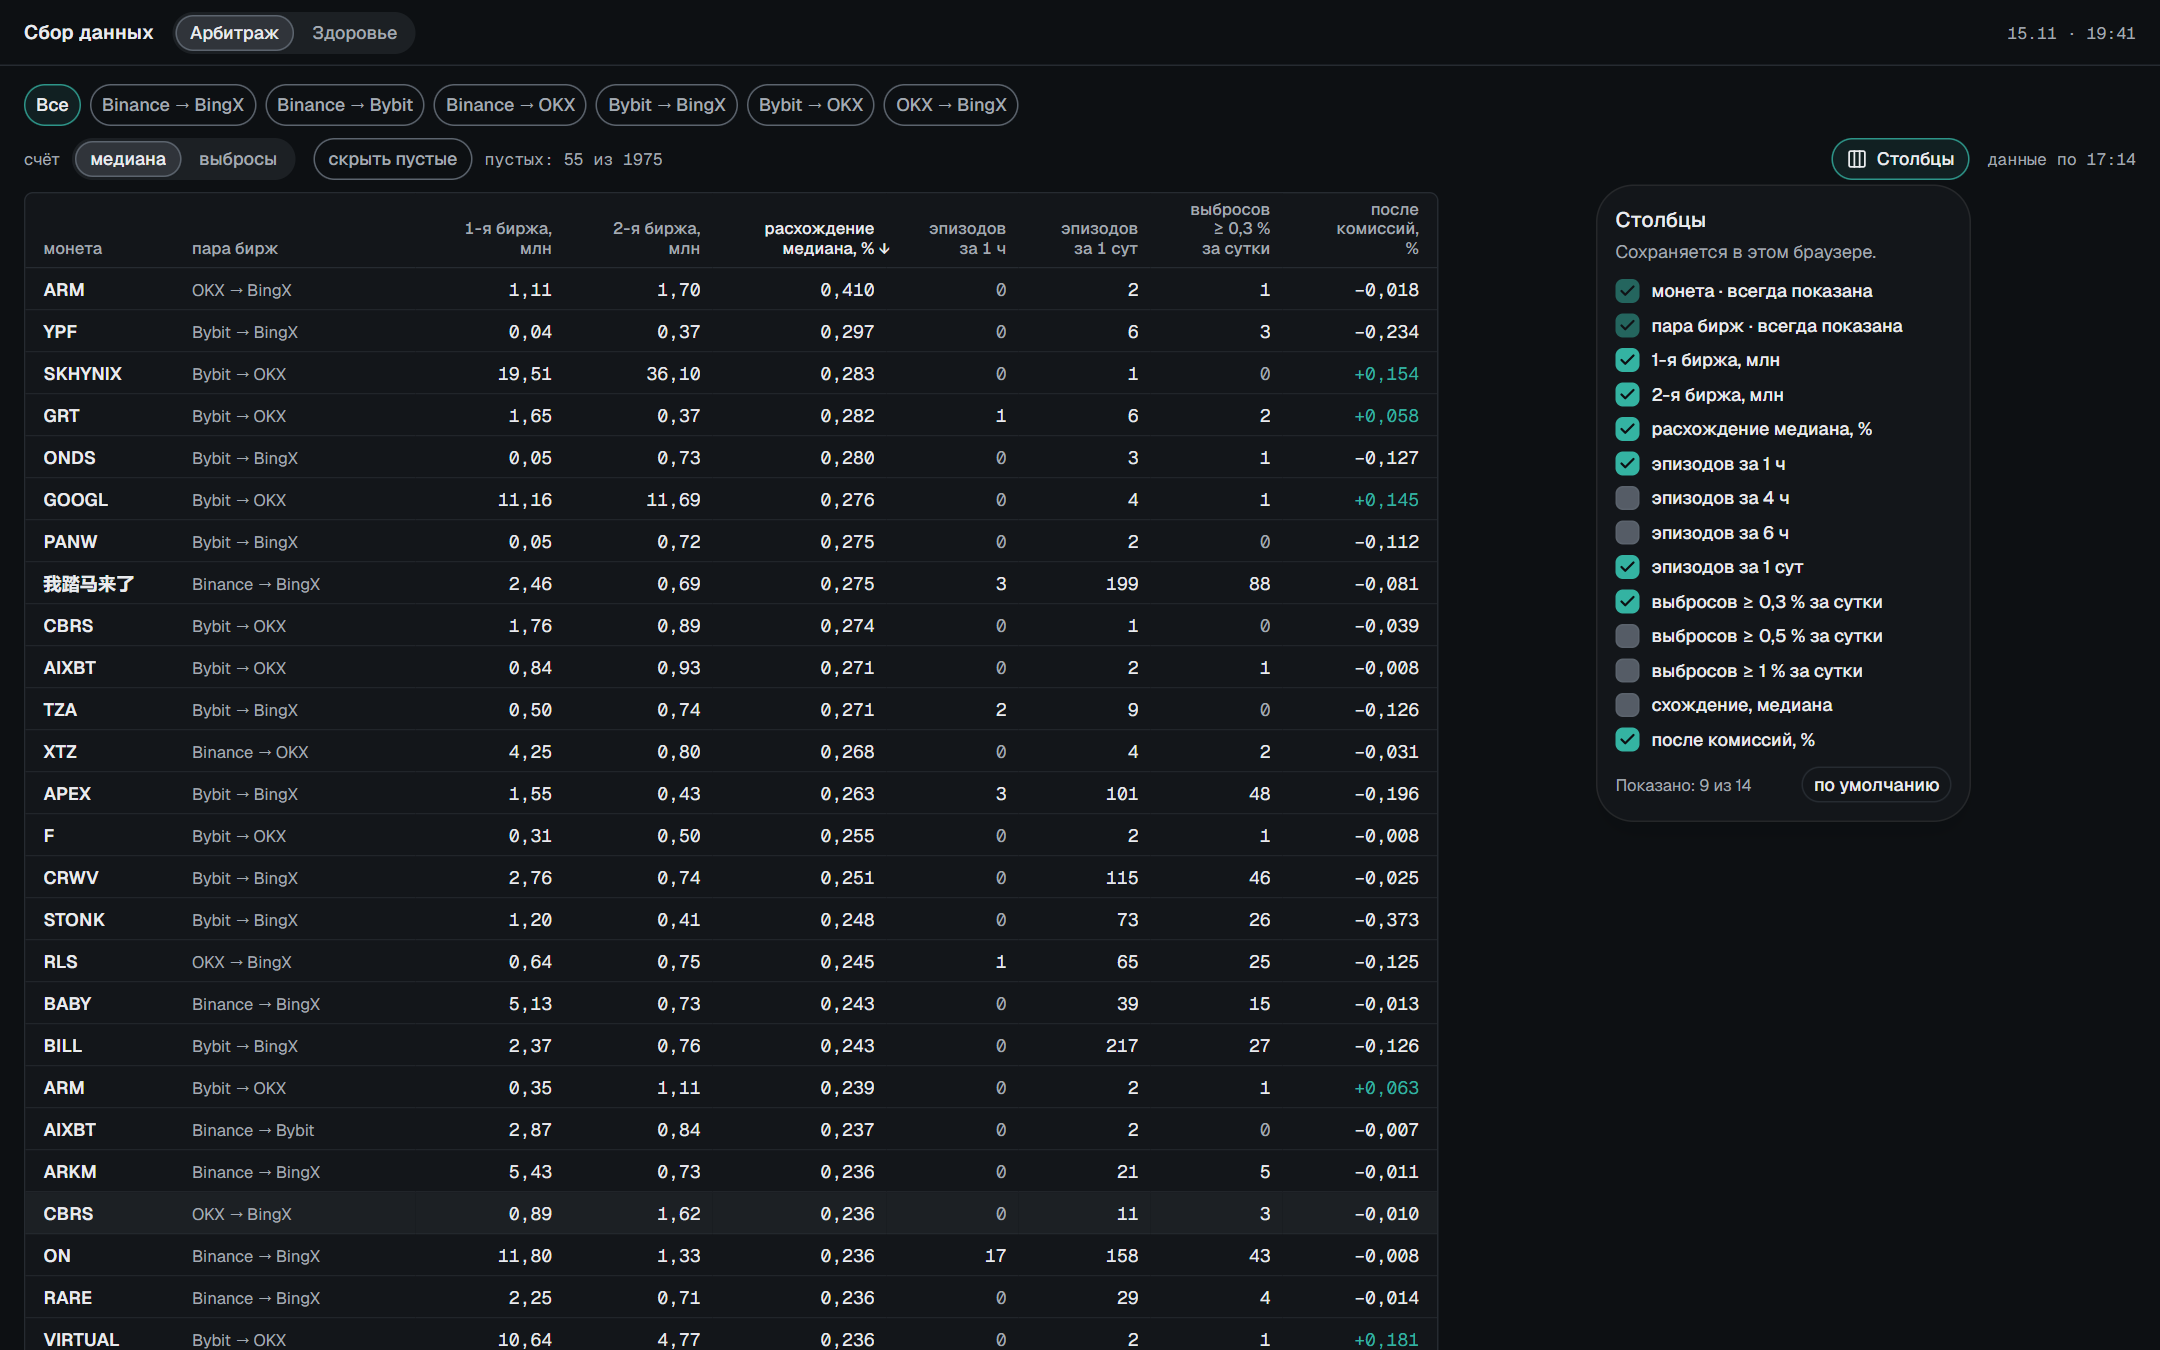
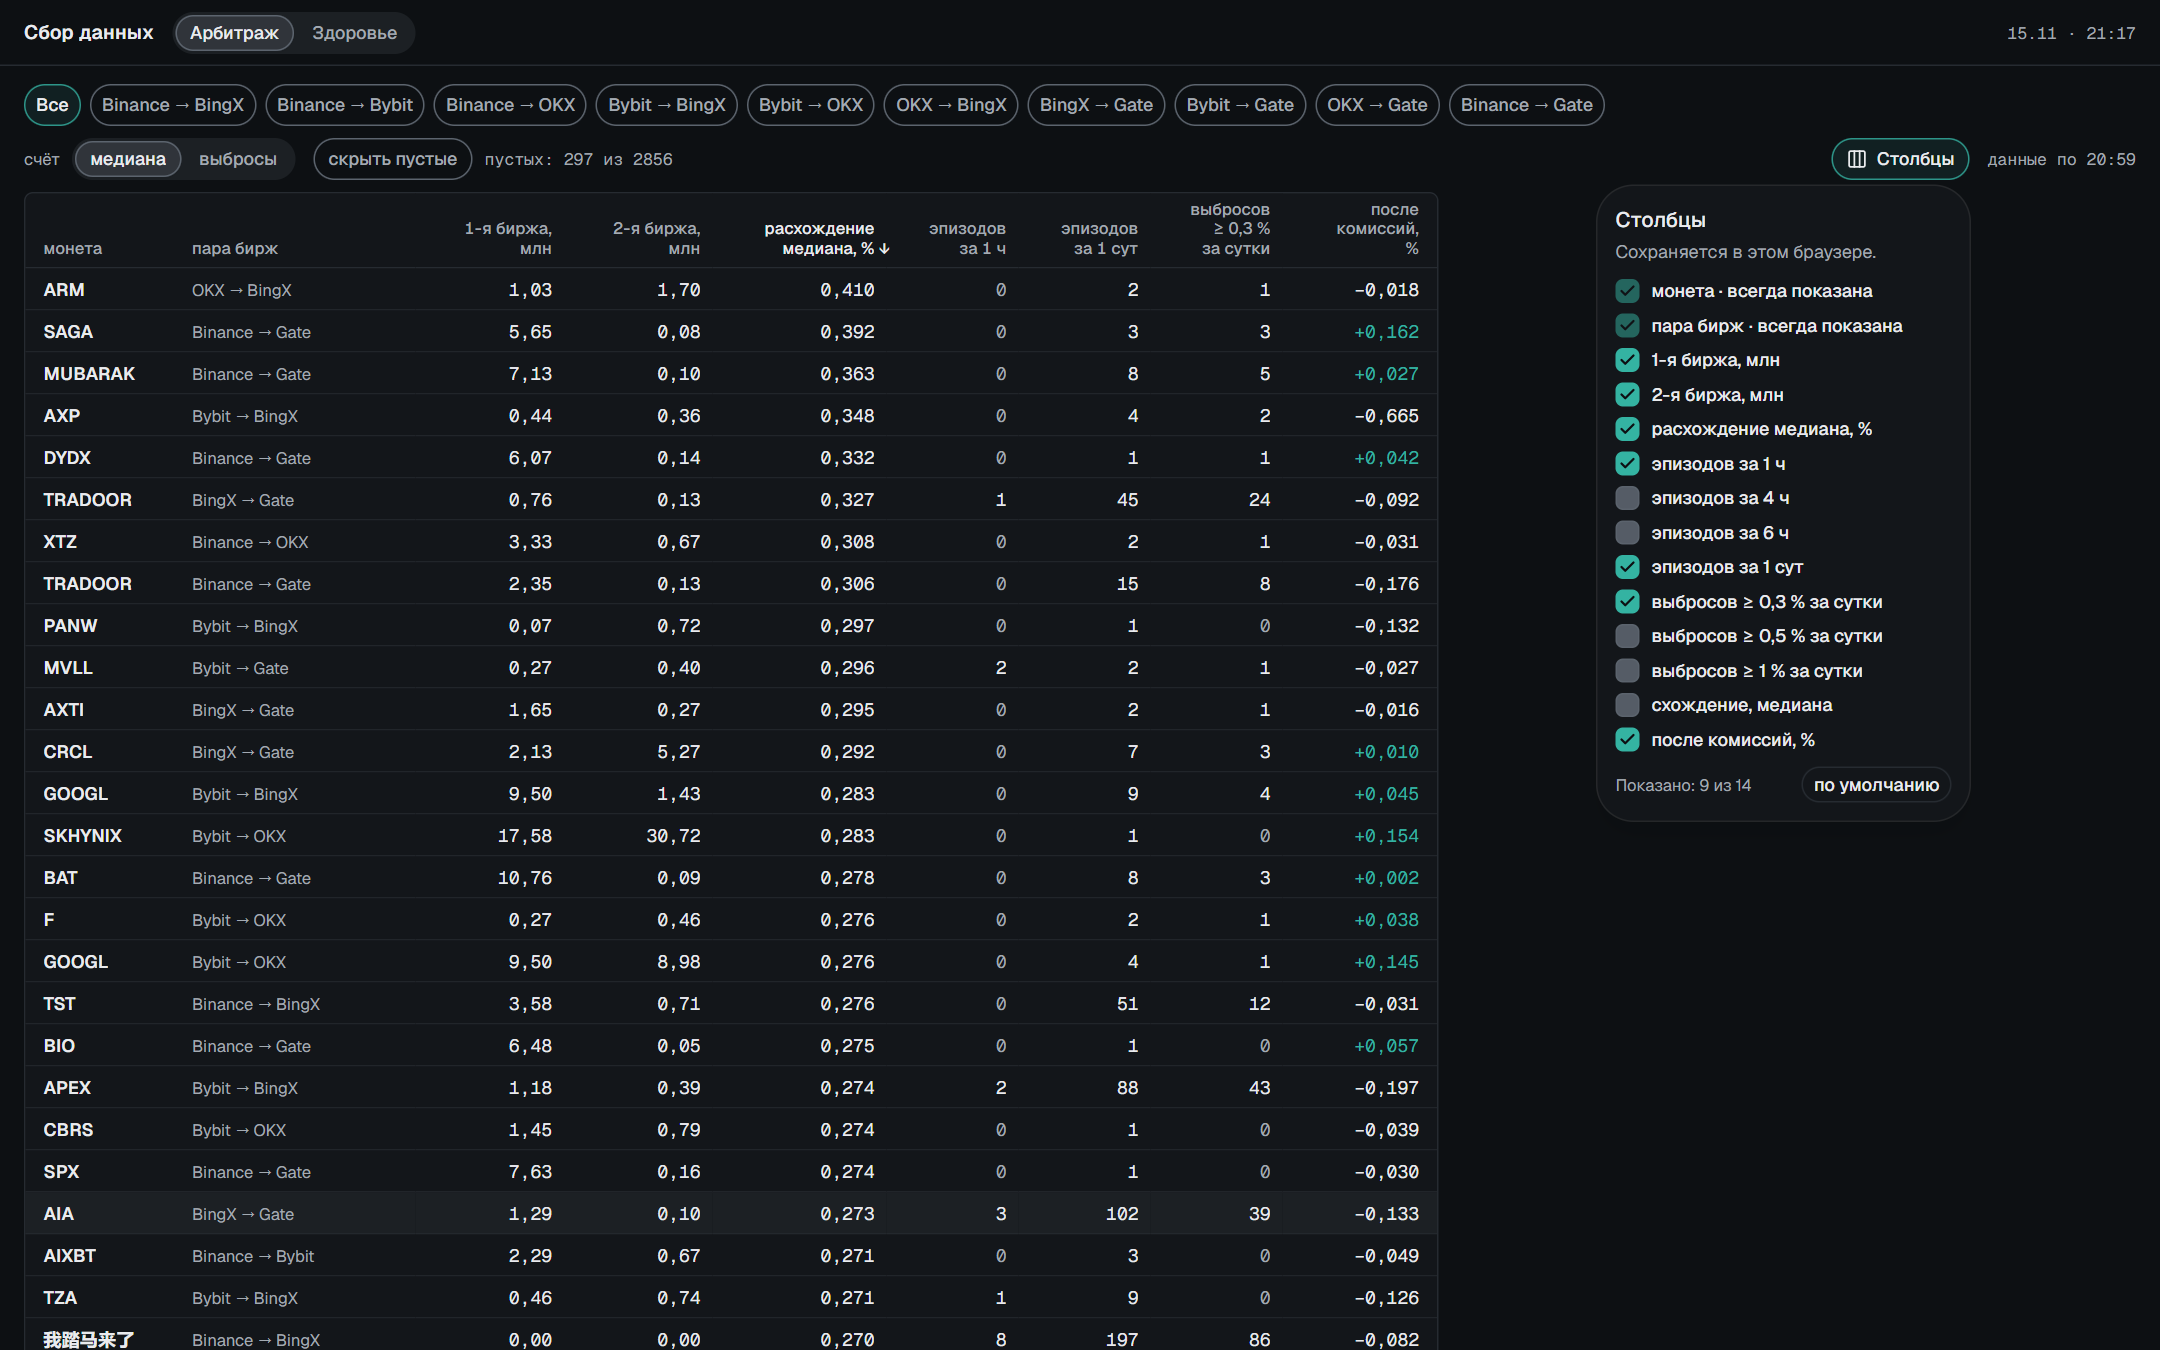
G-022: Gate — пересборка судит «одна монета» по общему отрезку пары, пул — последний не позже дня (у старых бирж 14.11, у Gate 15.11), макет с Gate и PNG

diff --git a/tools/arb_stats/test_daemon.py b/tools/arb_stats/test_daemon.py
@@ -210,6 +210,11 @@ def test_gate_units_and_trial_run_skipped(tmp_path, monkeypatch):
     assert dep[0] == pytest.approx(min(10 * 2.0, 100 * 3.0) * 0.1)
     files = {Path(j[2]).name for j in arb_live.discover([env.day]) if j[0] == "gate"}
     assert files == {f"book00-{common.MINRUN_EX['gate']}.tsv.zst"}       # пробный запуск Gate (метка раньше MINRUN_EX) не читается
+    root = Path(common.ROOTS["gate"])      # пул — последний не позже дня (старые биржи: последний пул 14.11, у Gate — 15.11)
+    (root / f"pool-{env.day}.json").rename(root / "pool-2026-11-10.json")
+    assert common.load_pool("gate", "2026-11-12")[0] and common.load_pool("gate", "2026-11-10")[0]
+    with pytest.raises(OSError):
+        common.load_pool("gate", "2026-11-09")
     monkeypatch.setattr(common, "SINCE", {"gate": "2026-11-15"})
     assert common.load_pool("gate", "2026-11-14") == ([], {}, {}) and common.load_pool("gate", env.day) == ([], {}, {})      # до первого дня — биржи в счёте нет (пулов нет)
     assert common.norm("gate", "BTC_USDT") == ("BTC", 1.0) and common.norm("gate", "1000PEPE_USDT") == ("PEPE", 1000.0) and common.norm("gate", "币安人生_USDT")[0] == "币安人生"
@@ -240,8 +245,35 @@ def test_rebuild_from_raw_files_gives_all_pairs_incl_gate(tmp_path, monkeypatch)
     rep = state_report.report(W, coins)
     assert rep["coins_with_exchange"] == 2 and rep["pairs_with_exchange"] == 5 and rep["excluded"] == [] and rep["not_ready"] == []
     assert rep["pairs_by_exchange"]["gate"] == 5
-    W.syms[("gate", "EEE_USDT")].mid *= 5                      # тот же тикер, другой актив: пара отброшена и названа в сводке
+    del W.pairs[("EEE", "okx", "gate")]                         # пары нет при готовых сторонах — названа в сводке отброшенной
+    W.syms[("gate", "EEE_USDT")].mid *= 5
     assert state_report.report(W, coins)["excluded"] == [["EEE", "okx", "gate", pytest.approx(0.2, rel=0.3)]]
+
+
+def test_bootstrap_pair_ok_compares_mids_over_the_common_span(tmp_path):
+    """Gate с короткой историей: цена за сутки ушла со 100 до 60, у Gate — только последние 6 часов; медианы разных промежутков (≈ 80 против ≈ 62) дали бы ratio 1,29 и ложное исключение."""
+    parsed = tmp_path / "parsed"
+    T1 = 1794699960000       # граница bootstrap — целая минута, как в боевом
+    for ex, sym, hours in (("binance", "AAAUSDT", 24), ("gate", "AAA_USDT", 6)):
+        (parsed / ex).mkdir(parents=True)
+        e = T1 - hours * 3600_000 + np.arange(hours * 360, dtype=np.int64) * 10_000
+        px = 100.0 - 40.0 * (e - (T1 - 24 * 3600_000)) / (24 * 3600_000)
+        np.savez(parsed / ex / f"{sym}.2026-11-15-book00-1.1.npz", e=e, rx=e + 50, lag=np.full(len(e), 50, "i4"), bid=px - 0.01, ask=px + 0.01, bsz=np.ones(len(e)), asz=np.ones(len(e)))
+    per = {"binance": ("AAAUSDT", 1.0, True), "gate": ("AAA_USDT", 1.0, True)}
+    cmap = {("binance", "AAAUSDT"): ("AAA", 1.0, 1.0), ("gate", "AAA_USDT"): ("AAA", 1.0, 0.1)}
+    syms, pairs, alive = arb_daemon.boot_coin(("AAA", per, cmap, str(parsed), T1))
+    assert ("AAA", "binance", "gate") in pairs and pairs[("AAA", "binance", "gate")].m0 is not None
+    assert set(alive) == {"binance", "gate"}
+    assert not 0.9 < syms[("binance", "AAAUSDT")].mid / syms[("gate", "AAA_USDT")].mid < 1.1      # медианы собственных историй расходятся — прежнее правило исключило бы пару
+    # пара принята и остаётся: проход службы не судит существующую пару заново по серединам символов
+    W = arb_daemon.new_world()
+    W.syms, W.pairs = syms, pairs
+    arb_daemon.step_coin(W, "AAA", per, {k: s.carry for k, s in syms.items()}, {k: None for k in syms}, T1 // MIN + 1)
+    assert pairs[("AAA", "binance", "gate")].m0 is not None and len(pairs[("AAA", "binance", "gate")].mid) >= 1
+    # две монеты разных активов (общий отрезок — цена 100 против 20) по-прежнему исключаются
+    bad = {("binance", "BBBUSDT"): {"e": np.arange(100, dtype=np.int64) * 1000, "bid": np.full(100, 100.0), "ask": np.full(100, 100.1)},
+           ("gate", "BBB_USDT"): {"e": np.arange(100, dtype=np.int64) * 1000, "bid": np.full(100, 20.0), "ask": np.full(100, 20.1)}}
+    assert not arb_daemon.span_ratio_ok(bad[("binance", "BBBUSDT")], bad[("gate", "BBB_USDT")]) and arb_daemon.span_ratio_ok(None, bad[("gate", "BBB_USDT")])
 
 
 # середины Sym.mid живого состояния srv 15.11.2026: тикер — разные активы на биржах (ANTHROPIC, BB, ON) → пары не считаются; BARD — один актив (по минутам ratio p50 0,998)

diff --git a/tools/arb_stats/arb_daemon.py b/tools/arb_stats/arb_daemon.py
@@ -180,9 +180,22 @@ def pair_ok(sa, sb):
     return 0.9 < sa.mid / sb.mid < 1.1      # цены одной монеты на двух биржах — одного порядка (иначе разный множитель названия)
 
 
-def step_coin(W, coin, per, carry0, batch, k_to):
+def span_ratio_ok(ba, bb):
+    """Проверка «одна монета» при пересборке: отношение медиан середин по общему отрезку времени пары, а не по собственной истории каждой стороны (у Gate история короче —
+    медианы разных промежутков дают ложные исключения: BARD, BTW, SOPH, EVAA, цена ушла на 10–40 % между медианой суток и последних часов)."""
+    if ba is None or bb is None:
+        return True
+    lo = max(int(ba["e"][0]), int(bb["e"][0]))
+    ma, mb = ba["e"] >= lo, bb["e"] >= lo
+    if not ma.any() or not mb.any():
+        return True
+    return 0.9 < float(np.median((ba["bid"][ma] + ba["ask"][ma]) / 2)) / float(np.median((bb["bid"][mb] + bb["ask"][mb]) / 2)) < 1.1
+
+
+def step_coin(W, coin, per, carry0, batch, k_to, okfn=None):
     """Дописывает проход (минуты до k_to) ко всем парам монеты (по биржам из per, порядок EXCHANGES). Существующие пары дописываются
-    каждый проход, даже без новых записей: минуты без записей получают перенесённое состояние."""
+    каждый проход, даже без новых записей: минуты без записей получают перенесённое состояние. Принятая пара остаётся (проверку «одна монета» проходит при создании:
+    okfn(ka, kb) — пересборка судит по общему отрезку времени пары; иначе pair_ok по серединам символов)."""
     exs = [ex for ex in EXCHANGES if ex in per and ready(W, ex, per[ex][0])]
     for i in range(len(exs)):
         for j in range(i + 1, len(exs)):
@@ -191,7 +204,7 @@ def step_coin(W, coin, per, carry0, batch, k_to):
             key = (coin, ea, eb)
             if key not in W.pairs and batch.get(ka) is None and batch.get(kb) is None:
                 continue
-            if not pair_ok(W.syms[ka], W.syms[kb]):
+            if key not in W.pairs and not (okfn(ka, kb) if okfn else pair_ok(W.syms[ka], W.syms[kb])):
                 continue
             A, B = arb_inc.with_carry(carry0.get(ka), batch.get(ka)), arb_inc.with_carry(carry0.get(kb), batch.get(kb))
             ps = W.pairs.get(key)
@@ -253,12 +266,12 @@ def boot_coin(arg):
     W.syms = syms
     carry0 = {k: None for k in syms}
     for k, s in syms.items():
-        b = s.take(t_boot - 10 ** 12, t_boot)
-        batch[k] = b
+        batch[k] = s.take(t_boot - 10 ** 12, t_boot)
+    for k, b in batch.items():
         if b is not None:
-            s.mid = float(np.median((b["bid"] + b["ask"]) / 2))
+            syms[k].mid = float(np.median((b["bid"] + b["ask"]) / 2))
             alive.setdefault(k[0], []).append(np.unique(b["e"] // MIN))
-    step_coin(W, coin, per, carry0, batch, t_boot // MIN)
+    step_coin(W, coin, per, carry0, batch, t_boot // MIN, okfn=lambda ka, kb: span_ratio_ok(batch.get(ka), batch.get(kb)))
     return syms, W.pairs, {ex: np.unique(np.concatenate(ms)) for ex, ms in alive.items()}
 
 

diff --git a/tools/arb_stats/common.py b/tools/arb_stats/common.py
@@ -4,6 +4,7 @@
 перцентили, доли времени выше уровней, центр и разброс: tools/dashboard.py spread_stats / center_tw / vol_tw / bar_stats).
 """
 import json
+import os
 from pathlib import Path
 
 # порядок бирж = порядок пар (A, B): A раньше B
@@ -56,9 +57,17 @@ def unit_of(ex, m):
 
 
 def load_pool(ex, day):
+    """Пул символов биржи на день: пул самого дня, иначе последний раньше (сборщик пишет пул при запуске: у бирж, запущенных 14.11, последний — 14.11, у Gate — 15.11).
+    До первого дня данных биржи (SINCE) — пусто; нет ни одного пула не позже дня — OSError."""
     if day < SINCE.get(ex, ""):
         return [], {}, {}
-    d = json.loads(Path(ROOTS[ex], f"pool-{day}.json").read_text(encoding="utf-8"))
+    p = Path(ROOTS[ex], f"pool-{day}.json")
+    if not p.exists():
+        older = sorted(f for f in os.listdir(ROOTS[ex]) if f.startswith("pool-") and f.endswith(".json") and f[5:-5] <= day) if Path(ROOTS[ex]).is_dir() else []
+        if not older:
+            raise FileNotFoundError(str(p))
+        p = Path(ROOTS[ex], older[-1])
+    d = json.loads(p.read_text(encoding="utf-8"))
     return d["pool"], d.get("meta") or {}, d
 
 

diff --git a/tools/arb_stats/state_report.py b/tools/arb_stats/state_report.py
@@ -36,7 +36,7 @@ def report(W, coins, ex="gate"):
                 if ex not in (a, b):
                     continue
                 sa, sb = W.syms[(a, per[a][0])], W.syms[(b, per[b][0])]
-                if not arb_daemon.pair_ok(sa, sb):
+                if (coin, a, b) not in W.pairs:      # обе стороны готовы, пары нет: отброшена правилом «одна монета» (при пересборке — по общему отрезку времени пары)
                     out["excluded"].append([coin, a, b, round(sa.mid / sb.mid, 6)])
     return out
 
